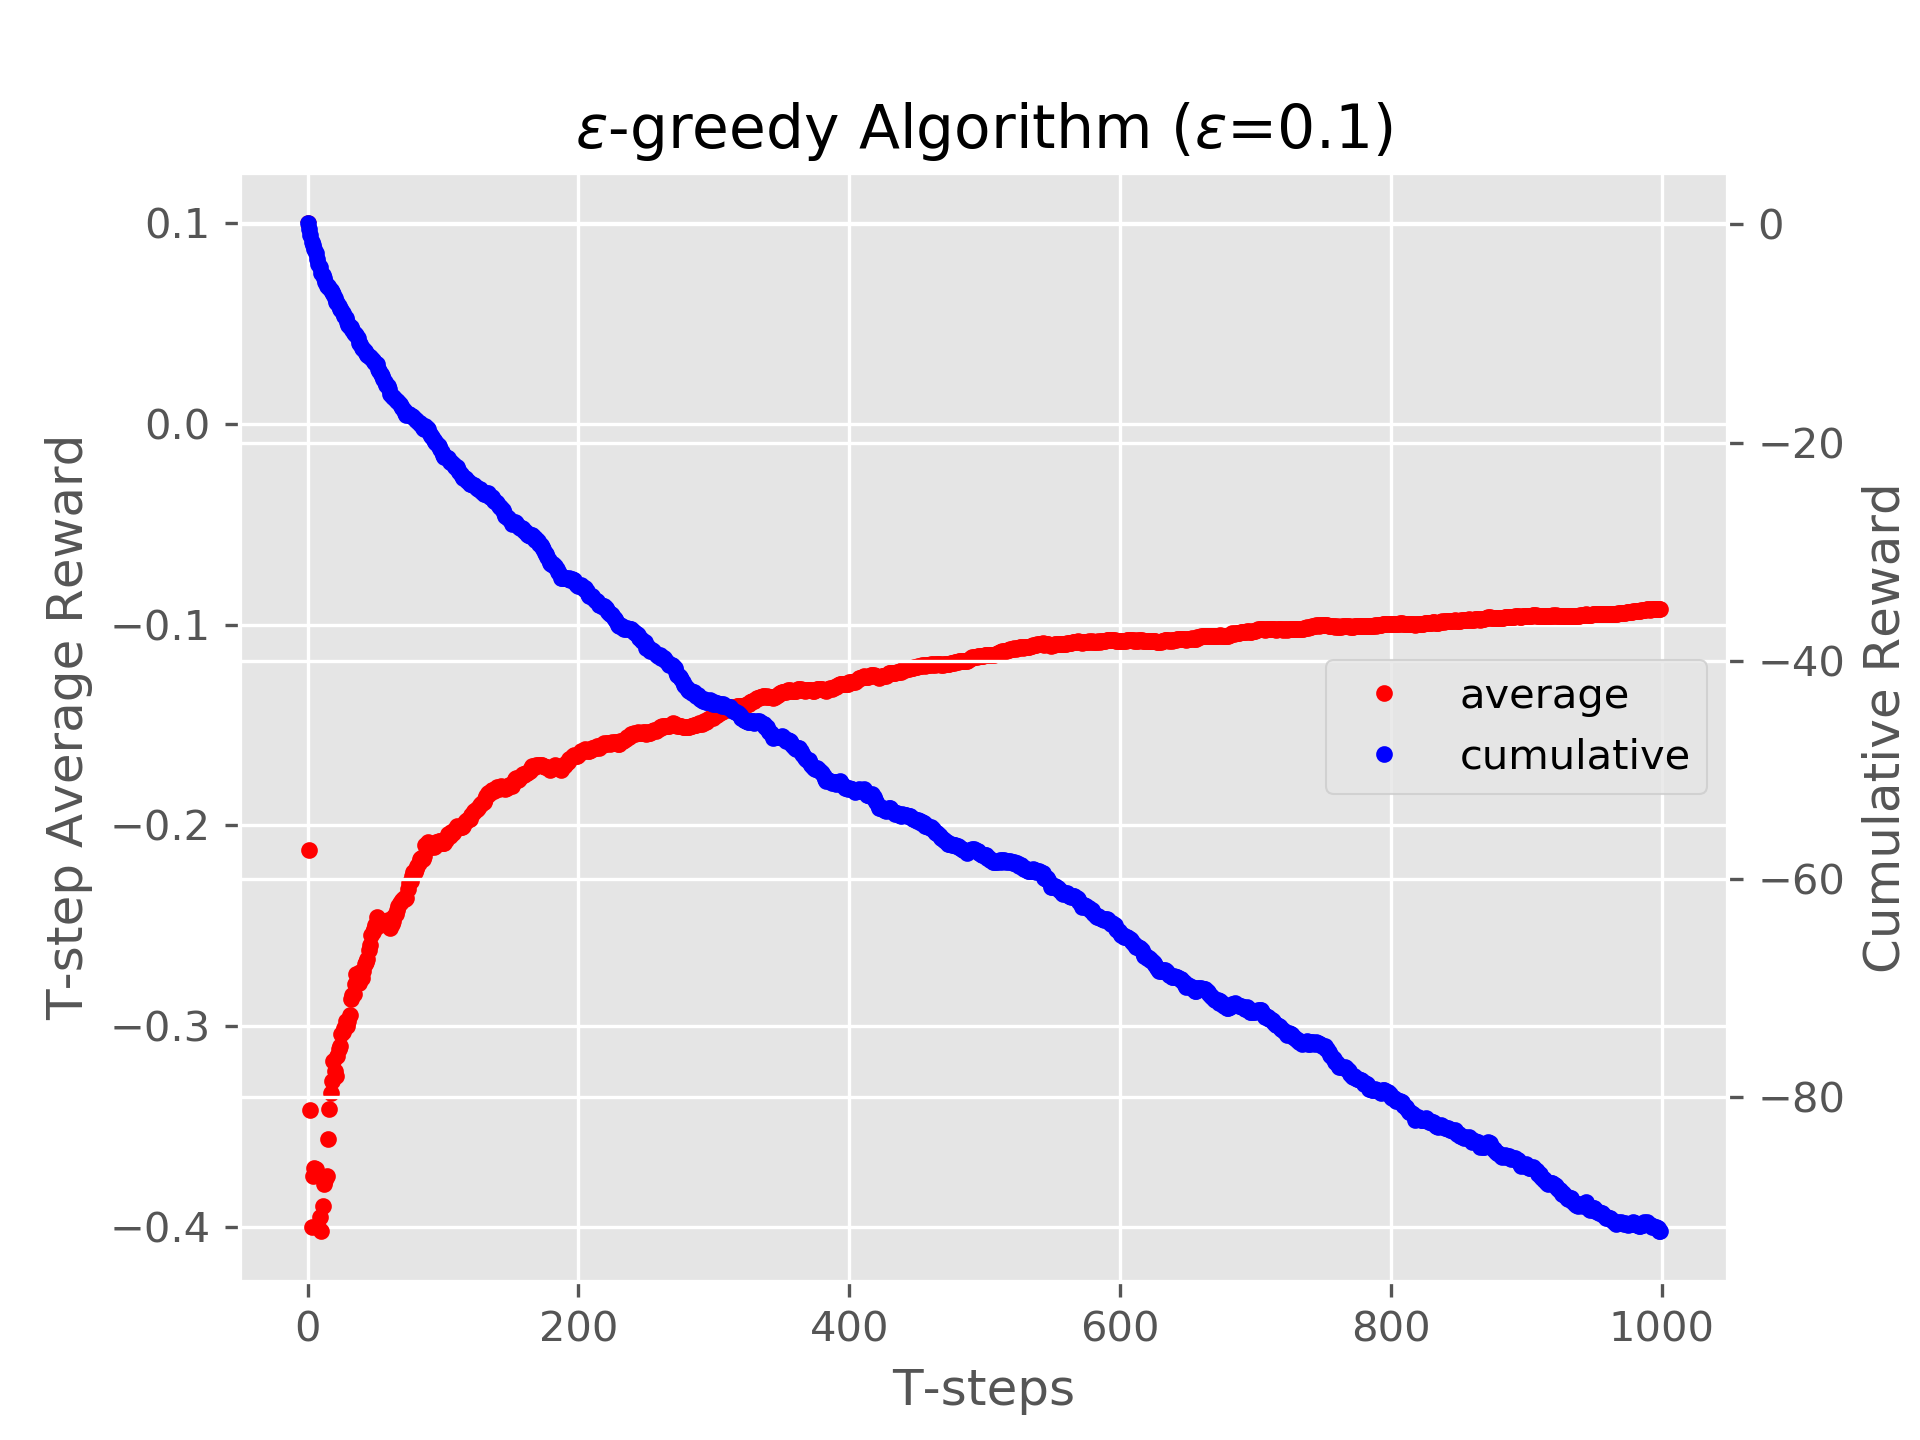
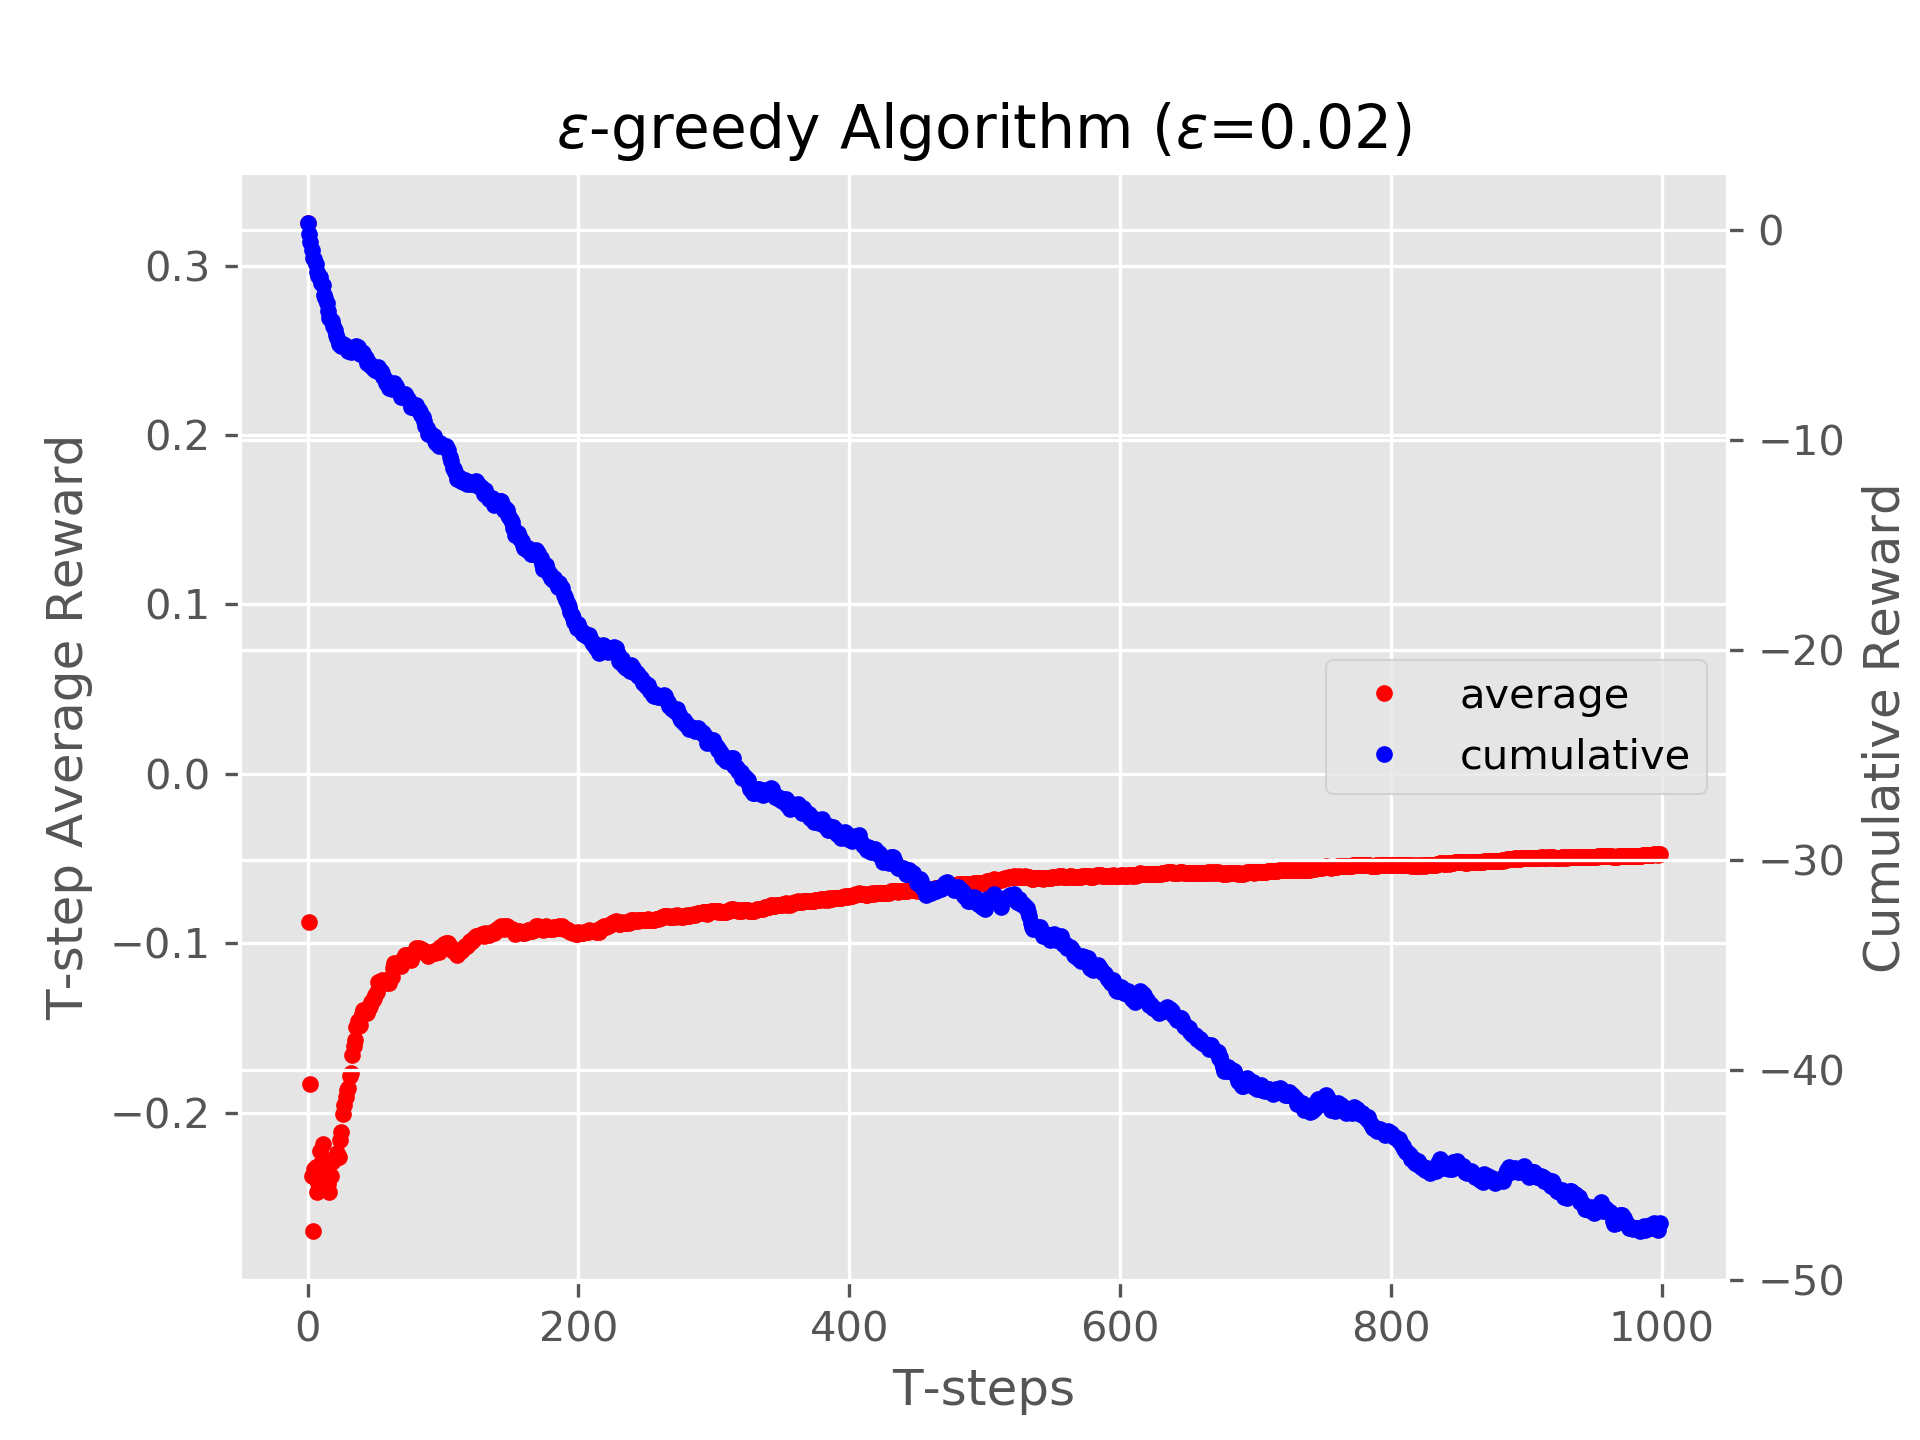
modify

diff --git a/k_armed_bandit/k_armed_bandit.py b/k_armed_bandit/k_armed_bandit.py
@@ -16,6 +16,7 @@ import matplotlib.pyplot as plt
 # ----------------------------- Reproducibility -------------------------------
 np.random.seed(1212)
 
+
 # ------------------------ Bandit game environment ----------------------------
 class Bandit(object):
     """
@@ -24,7 +25,7 @@ class Bandit(object):
     """
     def __init__(self):
         # probability of each arm receiving a reward
-        self.distribution = [0.4, 0.1, 0.1, 0.3, 0.4, 0.1, 0.2, 0.1, 0.2, 0.3]
+        self.distribution = [0.4, 0.1, 0.1, 0.3, 0.4, 0.1, 0.2, 0.4, 0.2, 0.3]
 
         # default 10 arms, k=10
         self.k_arm = len(self.distribution)
@@ -154,7 +155,7 @@ def e_greedy_simulate_main():
     reward_func = bandit.reward_func
 
     # action chosen method
-    e_greedy = 0.1
+    e_greedy = 0.02
     action_choose = Action_Choose(k_arm, parameter=e_greedy)
     algorithm = action_choose.e_greedy_choose
 
@@ -173,6 +174,7 @@ def e_greedy_simulate_main():
 
     # pictures
     plt.style.use('ggplot')
+    plt.tight_layout()
     fig = plt.figure()
     ax1 = fig.add_subplot(111)
     p1 = ax1.plot(np.mean(n_mean_reward, axis=0), '.', 
@@ -180,7 +182,6 @@ def e_greedy_simulate_main():
     ax1.set_title(f'$\epsilon$-greedy Algorithm ($\epsilon$={action_choose.parameter})')
     ax1.set_ylabel('T-step Average Reward')
     ax1.set_xlabel('T-steps')
-
     ax2 = ax1.twinx()
     p2 = ax2.plot(np.mean(n_cumulative_reward, axis=0), '.', 
                   color='b', label='cumulative')
@@ -203,7 +204,7 @@ def softmax_simulate_main():
     reward_func = bandit.reward_func
 
     # action chosen method    
-    tau = 0.05
+    tau = 0.02
     action_choose = Action_Choose(k_arm, parameter=tau)
     algorithm = action_choose.softmax_choose
 
@@ -222,6 +223,7 @@ def softmax_simulate_main():
 
     # pictures
     plt.style.use('ggplot')
+    plt.tight_layout()
     fig = plt.figure()
     ax1 = fig.add_subplot(111)
     p1 = ax1.plot(np.mean(n_mean_reward, axis=0), '.', 
@@ -229,7 +231,6 @@ def softmax_simulate_main():
     ax1.set_title(f'Softmax Algorithm ($\\tau$={action_choose.parameter})')
     ax1.set_ylabel('T-step Average Reward')
     ax1.set_xlabel('T-steps')
-
     ax2 = ax1.twinx()
     p2 = ax2.plot(np.mean(n_cumulative_reward, axis=0), '.', 
                   color='b', label='cumulative')
@@ -289,6 +290,7 @@ def optimize_parameters_main():
 
     # save result
     plt.style.use('ggplot')
+    plt.tight_layout()
     plt.plot(e_greedy, expect_reward_e_greedy, '.-', label='$\epsilon$-greedy')
     plt.plot(tau, expect_reward_softmax, '.-', label='Softmax')
     plt.title('parameter optimization')
@@ -300,6 +302,6 @@ def optimize_parameters_main():
 
 
 if __name__ == "__main__":
-    # e_greedy_simulate_main()
+    e_greedy_simulate_main()
     # softmax_simulate_main()
-    optimize_parameters_main()
+    # optimize_parameters_main()
